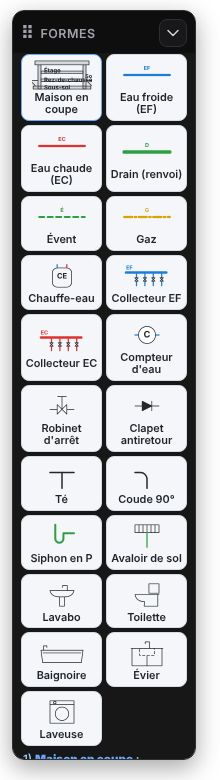
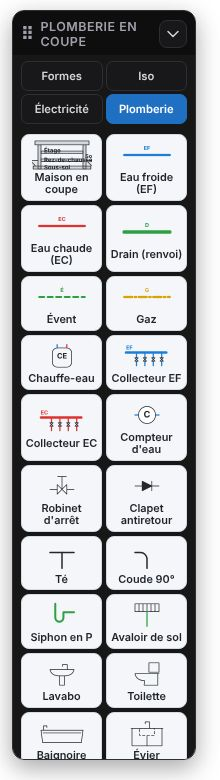
Palette Objets : onglet Plomberie en haut, avec Formes, Iso et Électricité
Claude-Session: https://claude.ai/code/session_0132P7fSy2K8VC3HWdnHumMj

diff --git a/index.html b/index.html
@@ -2740,7 +2740,7 @@ let dernierTap = null;
 function tapElement(o, e){ if (!o || !e) return; const t = performance.now(), d = dernierTap; dernierTap = { o, t, x:e.clientX, y:e.clientY };
   if (d && d.o === o && t - d.t < 550 && Math.hypot(e.clientX - d.x, e.clientY - d.y) < 24 && strokes().includes(o)){ dernierTap = null; SELO.s = o; redrawInk(); majObjUI(); modifierForme(o, e.clientX, e.clientY); } }
 /* sélectionner un élément d'une autre catégorie : la palette passe à son onglet (Formes, Iso ou Électricité) */
-function ongletPour(o){ return o.fil ? "elec" : o.t !== "objet" ? "formes" : ELEC[o.k] ? "elec" : "iso"; }
+function ongletPour(o){ return o.fil ? "elec" : FORMES[o.t] && FORMES[o.t].pl ? "plomb" : o.t !== "objet" ? "formes" : ELEC[o.k] ? "elec" : "iso"; }
 function choisirAutre(o){ const t = ongletPour(o), isoBg = !!RD.wb && /^iso/.test(wbBg());
   if ((t === "iso" && !isoBg) || (t === "elec" && !modeElec())){ aviser(t === "iso" ? "Cet objet isométrique se modifie sur le fond « plan isométrique » (bouton Fond)." : "Ce symbole électrique se modifie sur le fond quadrillé (bouton Fond).", 4500); return false; }
   if (RD.objTab !== t){ RD.formeK = null; RD.objKi = null; RD.objKe = null; } RD.objTab = t; SELO.s = o; majObjUI(); redrawInk(); return true; }
@@ -3248,12 +3248,12 @@ function majObjUI(){ const b = $("#objBar"); if (!b) return; b.hidden = !RD.obj;
   /* onglet : Formes, Isométrique (fond iso) ou Électricité (fond quadrillé) */
   const isoBg = !!RD.wb && /^iso/.test(wbBg());
   if (!RD.objTab || (RD.objTab === "iso" && !isoBg) || (RD.objTab === "elec" && !modeElec())) RD.objTab = modeElec() ? "elec" : isoBg ? "iso" : "formes";
-  if (RD.objTab !== "formes") RD.formeK = null;
+  if (RD.objTab !== "formes" && RD.objTab !== "plomb") RD.formeK = null;
   const tab = RD.objTab, el = tab === "elec"; RD.objK = el ? (RD.objKe || null) : (RD.objKi || null);   /* aucun outil par défaut : on choisit, déplace et nomme */
-  b.querySelectorAll("[data-tab]").forEach(x => { x.classList.toggle("on", x.dataset.tab === tab); x.disabled = x.dataset.tab !== "formes" && !RD.wb; x.setAttribute("aria-selected", x.dataset.tab === tab); });
+  b.querySelectorAll("[data-tab]").forEach(x => { x.classList.toggle("on", x.dataset.tab === tab); x.disabled = !/^(formes|plomb)$/.test(x.dataset.tab) && !RD.wb; x.setAttribute("aria-selected", x.dataset.tab === tab); });
   b.querySelectorAll(".grp").forEach(x => x.hidden = x.dataset.g !== tab); b.querySelectorAll(".grpE").forEach(x => x.hidden = !el);
   b.querySelectorAll("[data-f]").forEach(x => x.classList.toggle("on", x.dataset.f === RD.formeK));
-  b.querySelector(".tit").textContent = el ? "Schéma électrique" : tab === "iso" ? "Objets isométriques" : "Formes"; b.classList.toggle("sim", !!RD.sim); $("#objSim").textContent = RD.sim ? "■ Arrêter l'animation" : "▶ Animer le schéma";
+  b.querySelector(".tit").textContent = el ? "Schéma électrique" : tab === "iso" ? "Objets isométriques" : tab === "plomb" ? "Plomberie en coupe" : "Formes"; b.classList.toggle("sim", !!RD.sim); $("#objSim").textContent = RD.sim ? "■ Arrêter l'animation" : "▶ Animer le schéma";
   b.querySelectorAll("[data-k]").forEach(x => x.classList.toggle("on", x.dataset.k === RD.objK));
   b.querySelectorAll("[data-fc]").forEach(x => x.classList.toggle("on", x.dataset.fc === (RD.filCol || "#24282c")));
   const se = SELO.s && strokes().includes(SELO.s) && ELEC[SELO.s.k] ? SELO.s : null, de = ELEC[se ? se.k : RD.objK] || null, bn = b.querySelector("#objNF"), bl = b.querySelector("#objL");
@@ -3274,11 +3274,11 @@ function majObjUI(){ const b = $("#objBar"); if (!b) return; b.hidden = !RD.obj;
   const bar = document.createElement("div"); bar.id = "objBar"; bar.hidden = true;
   bar.style.cssText = "position:absolute;z-index:75;left:12px;top:70px;display:flex;flex-direction:column;gap:6px;width:184px;max-height:calc(100% - 150px);overflow-y:auto;overflow-x:hidden;padding:8px;border-radius:12px;background:rgba(14,14,15,.96);border:1px solid #2f2f33;color:#d4d4d8;font:600 .8rem system-ui,sans-serif;box-shadow:0 8px 24px rgba(0,0,0,.35)";
   bar.innerHTML = '<div class="tete" title="Glisse ici pour déplacer la palette"><span class="poig">⠿</span><span class="tit">Objets</span></div>'
-    + '<div class="onglets" role="tablist"><button data-tab="formes" role="tab">Formes</button><button data-tab="iso" role="tab" title="Objets isométriques (plomberie, chauffage)">Iso</button><button data-tab="elec" role="tab">Électricité</button></div>'
+    + '<div class="onglets" role="tablist"><button data-tab="formes" role="tab">Formes</button><button data-tab="iso" role="tab" title="Objets isométriques (plomberie, chauffage)">Iso</button><button data-tab="elec" role="tab">Électricité</button><button data-tab="plomb" role="tab" title="Plomberie en coupe : maison, tuyaux EF/EC, drain, appareils">Plomberie</button></div>'
     + '<div class="grp" data-g="formes"><div class="cgrid cform">' + Object.keys(FORMES).filter(k => !FORMES[k].pl).map(k => '<button data-f="' + k + '" title="' + FORMES[k].n + '"><canvas width="120" height="64"></canvas><span>' + FORMES[k].n + '</span></button>').join("") + '</div>'
     + '<div class="aide"><b>Touche</b> une forme pour la choisir : glisse-la pour la déplacer, tire un <b>carré blanc</b> pour la grandir. <b>Double-clic</b> : écrire la cote, l\'angle ou un nom. Pour en <b>ajouter</b> : choisis une forme ci-dessous, puis glisse sur le tableau. <b>Clic à côté</b> : plus rien de choisi.</div>'
-    + '<details class="plomb"><summary>Plomberie (maison en coupe)</summary><div class="cgrid cform">' + Object.keys(FORMES).filter(k => FORMES[k].pl).map(k => '<button data-f="' + k + '" title="' + FORMES[k].n + '"><canvas width="120" height="64"></canvas><span>' + FORMES[k].n + '</span></button>').join("") + '</div>'
-    + '<div class="aide">1) <b>Maison en coupe</b> : touche-la puis clique sur le tableau. 2) <b>Tuyaux</b> (EF, EC, drain, évent, gaz) : glisse d\'un point à l\'autre; ils restent droits ou à 45° et s\'aimantent au bout d\'un autre tuyau. 3) <b>Appareils et raccords</b> : un clic les pose. <b>Double-clic</b> sur un tuyau : son diamètre (ex. 3/4 po).</div></details></div>'
+    + '</div><div class="grp" data-g="plomb"><div class="cgrid cform">' + Object.keys(FORMES).filter(k => FORMES[k].pl).map(k => '<button data-f="' + k + '" title="' + FORMES[k].n + '"><canvas width="120" height="64"></canvas><span>' + FORMES[k].n + '</span></button>').join("") + '</div>'
+    + '<div class="aide">1) <b>Maison en coupe</b> : touche-la puis clique sur le tableau. 2) <b>Tuyaux</b> (EF, EC, drain, évent, gaz) : glisse d\'un point à l\'autre; ils restent droits ou à 45° et s\'aimantent au bout d\'un autre tuyau. 3) <b>Appareils et raccords</b> : un clic les pose. <b>Double-clic</b> sur un tuyau : son diamètre (ex. 3/4 po).</div></div>'
     + '<div class="grp" data-g="iso"><div class="cgrid ciso">' + Object.keys(OBJETS).map(k => '<button data-k="' + k + '" title="' + OBJETS[k].n + '"><canvas width="120" height="64"></canvas><span>' + OBJETS[k].n + '</span></button>').join("") + '</div>'
     + '<div class="aide"><b>Touche</b> un objet pour le choisir et le déplacer (les tuyaux raccordés suivent), <b>double-clic</b> pour le nommer. Pour en <b>poser</b> un : <b>glisse-le</b> sur le tableau (il se branche tout seul sur un tuyau tout près), ou touche-le puis clique sur la grille. <b>Clic à côté</b> : plus rien de choisi.</div></div>'
     + '<div class="grp" data-g="elec"><button id="objSch" class="sch-btn" title="Circuits prêts à utiliser et tableaux enregistrés">📋 Modèles et mes schémas</button>' + ELEC_CAT.map(([cg, cn]) => '<button class="cat" data-cat="' + cg + '">' + cn + '</button><div class="cgrid" data-cat="' + cg + '">'
@@ -3295,7 +3295,7 @@ function majObjUI(){ const b = $("#objBar"); if (!b) return; b.hidden = !RD.obj;
   st.textContent = '#objBar button{min-height:32px;padding:0 8px;border-radius:8px;border:1px solid #2f2f33;background:#18181a;color:#d4d4d8;cursor:pointer;font:inherit;text-align:left}#objBar button:hover{border-color:#6a6a70}#objBar button.on{background:#2a2a2d;border-color:#6aa9ff;color:#fff}'
     + '#objBar .tete{display:flex;align-items:center;gap:6px;cursor:grab;user-select:none;touch-action:none;padding:2px 0 4px 2px;position:sticky;top:-8px;z-index:2;background:rgb(14,14,15);margin:-8px -8px 0;padding:8px 8px 6px;color:#a1a1aa;font-size:.78rem;letter-spacing:.04em;text-transform:uppercase}#objBar .tete:active{cursor:grabbing}#objBar .poig{font-size:1.1rem;line-height:1}'
     + '#objBar #objF{margin-left:auto;flex:none;min-height:28px;width:28px;padding:0;display:flex;align-items:center;justify-content:center}#objBar.of{width:auto!important}#objBar.of .tit{display:none}'
-    + '#objBar .onglets{display:grid;grid-template-columns:repeat(3,1fr);gap:3px;margin-bottom:4px}#objBar .onglets button{min-height:30px;padding:0 2px;text-align:center;font-size:.7rem;border-radius:7px}#objBar .onglets button.on{background:#1f6fc2;border-color:#1f6fc2;color:#fff}#objBar .onglets button[disabled]{opacity:.35;cursor:not-allowed}'
+    + '#objBar .onglets{display:grid;grid-template-columns:repeat(2,1fr);gap:3px;margin-bottom:4px}#objBar .onglets button{min-height:30px;padding:0 2px;text-align:center;font-size:.7rem;border-radius:7px}#objBar .onglets button.on{background:#1f6fc2;border-color:#1f6fc2;color:#fff}#objBar .onglets button[disabled]{opacity:.35;cursor:not-allowed}'
     + '#objBar .grp{display:flex;flex-direction:column;gap:4px}#objBar .grp[hidden],#objBar .grpE[hidden]{display:none!important}'
     + '#objBar .sch-btn{text-align:center!important;background:#1f6fc2!important;border-color:#1f6fc2!important;color:#fff!important;margin-bottom:4px}#objBar .cat{background:transparent!important;border:0!important;color:#a1a1aa!important;font-size:.72rem;text-transform:uppercase;letter-spacing:.04em;min-height:26px!important;padding:0 2px!important;display:flex;align-items:center;gap:6px}#objBar .cat::before{content:"▾";font-size:.8rem;width:10px}#objBar .cat.ferme::before{content:"▸"}#objBar .cat:hover{color:#fff!important}'
     + '#objBar .cgrid{display:grid;grid-template-columns:1fr 1fr;gap:4px;margin-bottom:4px}#objBar .cgrid[hidden]{display:none}#objBar .pol{display:grid;grid-template-columns:1fr 1fr;gap:4px}#objBar .pol button{text-align:center;font-size:.78rem}#objBar .del{display:flex;align-items:center;gap:6px;font-size:.78rem}#objBar .del input{width:56px;min-height:30px;border-radius:8px;border:1px solid #2f2f33;background:#fff;color:#111;font:inherit;font-weight:700;padding:0 6px}'
@@ -3360,10 +3360,10 @@ function majObjUI(){ const b = $("#objBar"); if (!b) return; b.hidden = !RD.obj;
       dessinerObjet(g, s1, W, H, RD.z * dpr, "#3a424b"); } catch(e){} RD.z = z0; });
   /* onglets : Formes partout; Isométrique et Électricité changent le fond du tableau au besoin */
   bar.querySelectorAll("[data-tab]").forEach(b => b.onclick = () => { const t = b.dataset.tab;
-    if (t !== "formes" && !RD.wb){ aviser("Les objets isométriques et les symboles électriques se posent sur le tableau blanc (bouton Tableau blanc)."); return; }
+    if (t !== "formes" && t !== "plomb" && !RD.wb){ aviser("Les objets isométriques et les symboles électriques se posent sur le tableau blanc (bouton Tableau blanc)."); return; }
     RD.objTab = t; SELO.s = null;
     RD.formeK = null; RD.objKi = null; RD.objKe = null;
-    if (t !== "formes"){ const voulu = t === "iso" ? /^iso/ : /^quad$/;
+    if (t !== "formes" && t !== "plomb"){ const voulu = t === "iso" ? /^iso/ : /^quad$/;
       if (!voulu.test(wbBg())){ wbEtat().bg[wbEtat().n] = t === "iso" ? "iso" : "quad"; majFond(); aviser(t === "iso" ? "Fond : plan isométrique." : "Fond : quadrillé (schéma électrique en échelle)."); } }
     redrawInk(); refreshTools(); });
   bar.querySelectorAll("[data-fc]").forEach(x => x.onclick = () => { RD.filCol = x.dataset.fc; RD.objKe = "fil"; RD.objKi = null; SELO.s = null; majObjUI(); redrawInk(); aviser("Fil " + x.title.toLowerCase() + " : glisse d'un point bleu à l'autre.", 2500); });
@@ -3515,7 +3515,7 @@ function majObjUI(){ const b = $("#objBar"); if (!b) return; b.hidden = !RD.obj;
     if (s.k === "rails"){ if (surRails(s, G, x, y, .1) && (RD.objK === "rails" || (y - G.oy) / G.u < .4)) return s; continue; }
     if (x >= G.bbox[0] - 4 && x <= G.bbox[2] + 4 && y >= G.bbox[1] - 4 && y <= G.bbox[3] + 4) return s; } return null; };
   c.addEventListener("pointerdown", e => {
-    if (!RD.obj || !RD.wb || RD.eraser || RD.sim || RD.objTab === "formes") return;
+    if (!RD.obj || !RD.wb || RD.eraser || RD.sim || RD.objTab === "formes" || RD.objTab === "plomb") return;
     const q = cur(e), el = modeElec();
     { const o = touche(q.raw); if (o && ongletPour(o) !== RD.objTab){ e.stopImmediatePropagation(); if (choisirAutre(o)) tapElement(o, e); return; }
       if (!o && !(el && borneProche(q.raw))){ const f = formeSous(q.raw);
@@ -3656,7 +3656,7 @@ function majObjUI(){ const b = $("#objBar"); if (!b) return; b.hidden = !RD.obj;
       RD.obj = true; RD.objTab = null; RD.formeK = null; RD.objKi = null; RD.objKe = null; refreshTools();
       if (hit.t === "objet"){ if (choisirAutre(hit)) tapElement(hit, e); return; }
       choisirAutre(hit); cur = { bouge:hit, q0:pt(e), p0:hit.p.map(v => v.slice()), snap:false, x0:e.clientX, y0:e.clientY }; return; }
-    if (RD.text || (RD.obj && RD.objTab !== "formes")){ e.preventDefault(); return; }
+    if (RD.text || (RD.obj && RD.objTab !== "formes" && RD.objTab !== "plomb")){ e.preventDefault(); return; }
     const q = pt(e);
     if (RD.obj){ const brut = (r => [(e.clientX - r.left) / r.width, (e.clientY - r.top) / r.height])(c.getBoundingClientRect()), ip = poigneeSous(SELO.s, brut);
       if (ip >= 0 && !(RD.formeK && /^tuy/.test(RD.formeK))){ cur = { poignee:ip, s:SELO.s, snap:false, x0:e.clientX, y0:e.clientY }; return; }   /* outil tuyau : on part du bout pour un nouveau tuyau */               /* agrandir / rapetisser par une poignée */
@@ -3664,7 +3664,7 @@ function majObjUI(){ const b = $("#objBar"); if (!b) return; b.hidden = !RD.obj;
       if (hit && hit === SELO.s && !(RD.formeK && /^tuy/.test(RD.formeK) && /^tuy/.test(hit.t))){ cur = { bouge:hit, q0:q, p0:hit.p.map(v => v.slice()), snap:false, x0:e.clientX, y0:e.clientY }; return; }   /* forme déjà choisie : on la glisse */
       const obj = !hit && RD.wb ? objetSous(brut) : null;
       if (!RD.formeK){           /* aucun outil : toucher = choisir (et glisser = déplacer); toucher à côté = rien de choisi */
-        if (hit){ SELO.s = hit; redrawInk(); majObjUI(); cur = { bouge:hit, q0:q, p0:hit.p.map(v => v.slice()), snap:false, x0:e.clientX, y0:e.clientY }; return; }
+        if (hit){ SELO.s = hit; { const og = ongletPour(hit); if (og !== RD.objTab && /^(formes|plomb)$/.test(og)) RD.objTab = og; } redrawInk(); majObjUI(); cur = { bouge:hit, q0:q, p0:hit.p.map(v => v.slice()), snap:false, x0:e.clientX, y0:e.clientY }; return; }
         if (obj){ if (choisirAutre(obj)) tapElement(obj, e); return; }
         if (SELO.s){ SELO.s = null; redrawInk(); majObjUI(); } e.preventDefault(); return; }
       var choisir = hit || obj;     /* forme pas encore choisie : un simple clic la choisit, mais glisser trace une nouvelle forme (ex. une cote qui part du coin d'un rectangle) */
@@ -3926,7 +3926,7 @@ function refreshTools(){
   const sw = document.querySelector('#penBar .sw[data-c="#24282c"]'); if (sw){ sw.style.setProperty("--c", wbSombre() ? "#f4f1ea" : "#24282c"); sw.setAttribute("aria-label", wbSombre() ? "Craie blanche" : "Noir"); }
   document.querySelectorAll("#penBar .sw").forEach(b => b.classList.toggle("on", !RD.eraser && b.dataset.c === RD.color)); if (RD.swx) RD.swx.classList.toggle("on", !RD.eraser && !document.querySelector("#penBar .sw.on"));
   if (RD.obj && !(RD.pen || RD.wb)) RD.obj = false;
-  if (RD.obj && RD.objTab && RD.objTab !== "formes" && !RD.wb) RD.objTab = "formes";
+  if (RD.obj && RD.objTab && RD.objTab !== "formes" && RD.objTab !== "plomb" && !RD.wb) RD.objTab = "formes";
   if (RD.sim && (!RD.obj || !modeElec())) simStop(true);
   $("#penO").classList.toggle("on", !!RD.obj);
   redrawInk(); if (!RD.text) SEL.s = null; if (!RD.obj) SELO.s = null; majBarTxt(); majSelTxt(); majObjUI();

diff --git a/CLAUDE.md b/CLAUDE.md
@@ -56,7 +56,7 @@
   s'arrête dès que l'enseignant tourne lui-même une page : `RD.bouge`).
 - Badges « Nouveau » / « Mis à jour » : `estNouveau`, `majRecente`, `badgeLivre` — 30 jours, et disparaissent une fois le livre
   ouvert sur cet ordinateur (`localStorage.livresVus`).
-- **Palette Objets** (`#objBar`, bouton cube `#penO`, visible partout) : trois onglets `RD.objTab` = `formes` | `iso` | `elec`.
+- **Palette Objets** (`#objBar`, bouton cube `#penO`, visible partout) : quatre onglets `RD.objTab` = `formes` | `iso` | `elec` | `plomb` (Plomberie : mêmes mécanismes que Formes, n'importe quel fond; partout où on teste « formes », tester aussi « plomb »).
   **Aucun outil par défaut** (`RD.formeK`, `RD.objKi`, `RD.objKe` = null à l'ouverture et au changement d'onglet; toucher l'outil actif l'éteint).
   Sans outil : clic = choisir (trait **ou intérieur** des formes fermées, la plus petite gagne), glisser = déplacer, double-clic = nommer, clic à côté = rien de choisi.
   Avec un outil : glisser trace (formes), clic pose (objets); l'élément créé reste choisi; un clic à côté quand quelque chose est choisi = retour à aucun outil (`cur.raz`, `mv.raz`).
@@ -70,7 +70,7 @@
 - **Lot du 28 oct.** : `effacerChoix()` (Suppr et `#objD`, aussi pour `SELM` = sélection multiple), gomme `RD.gommeT` (`#popGom`, `localStorage.gommeTaille`), plein écran `#penFs`, couleur perso `localStorage.penPerso`, aperçu de glisser-déposer `window.APERCU` (dessiné en fin de `redrawInk`, `apercuObjet`/`placer`).
 - **Lot électricité du 28 oct.** : `relais` (palette) pose bobine + contact NO + contact NF du même repère (`poserRelais`); repères auto `etiqAuto`/`completerObjet` (CRn, TRn; un contact prend la bobine choisie ou la dernière); bornes A1/A2 et `numBornes` (i3-i4 NO, i1-i2 NF selon le rang du contact); `ampoule`; tensions `s.vp`/`s.vs` (transfo) et `s.v` (échelle, au centre), éditées dans `modifierForme` par des cases `data-cle`; `RD.filCol` + rangée `[data-fc]`; pôles/positions `[data-pp]`/`[data-pt]` qui cliquent les anciens `[data-pol]` (cachés, `.orig`); `nettoyerJonctions` (< 3 branchements = effacée); `window.reparerApresSuppression` relie les fils/tuyaux d'un objet à 2 bornes effacé.
 - **Sélection multiple** (`window.SELM`) : IIFE en capture avant les autres gestionnaires du canevas, active seulement sans outil (`!RD.formeK && !RD.objK`) — Ctrl/Maj+clic bascule un élément, glisser dans le vide = cadre (`boiteDe`), glisser un membre = déplacer le groupe; cadres pointillés dessinés dans `redrawInk`; `recolorerSel` et `effacerChoix` traitent `SELM`; `copierColler('c'|'v'|'x'|'d')` (`window.PRESSE`, décalage de 2 cases ou d'un pas iso). Ctrl/Maj + glisser = cadre style Windows partout sur le tableau blanc, même avec un outil (z-index 100000, sinon caché sous le lecteur); un objet passe avant un trait au toucher (`objetSous` avant `formeSous`); avec l'outil Fil, un simple clic sur un symbole le choisit (`mv.surObjet`). Ctrl + vignette = `window.remplacerObjet(o, k)` (même famille); Ctrl + forme = change `s.t` en gardant la boîte.
-- **Plomberie en coupe** : formes `FORMES[k].pl` (section `<details class="plomb">` de l'onglet Formes) : `maison`, tuyaux `tuyEF/EC/DR/EV/GZ` (couleurs `COUL_TUY`, traités comme des lignes : regex `tuy[A-Z]+`), appareils `pl*`; dessin `dessinerPlomb`; taille d'un clic `FORMES_TAILLE` (centrée); `aimanterTuyau` (45° + bout ou trajet d'un autre tuyau); avec un outil tuyau, toucher le tuyau choisi ou sa poignée démarre un nouveau tuyau.
+- **Plomberie en coupe** : formes `FORMES[k].pl` (onglet `plomb` de la palette, `.grp[data-g="plomb"]`; `ongletPour` → « plomb ») : `maison`, tuyaux `tuyEF/EC/DR/EV/GZ` (couleurs `COUL_TUY`, traités comme des lignes : regex `tuy[A-Z]+`), appareils `pl*`; dessin `dessinerPlomb`; taille d'un clic `FORMES_TAILLE` (centrée); `aimanterTuyau` (45° + bout ou trajet d'un autre tuyau); avec un outil tuyau, toucher le tuyau choisi ou sa poignée démarre un nouveau tuyau.
 - **Cotes** : `placerCase` met la case du double-clic à côté de l'objet; boutons `[data-plus="txt"]` (texte seul : cote avec `s.txt = 1`, sans lignes, lettre a, b, c… par défaut, poussée hors du côté selon la largeur du texte) et `[data-plus="cote"]` → `ajouterCote(s, txt)` (côté suivant sans texte / sans cote, à l'extérieur; `sommetsForme`).
 - **Crayon** : le bouton crayon `#penCol` (icône crayon, pointe à la couleur `--pc`) active/désactive le crayon (`RD.crayonOff`; l'activer ouvre `#popCol`). Épaisseur = glissière 1–40 (`RD.wPx`, `localStorage.penLargeur`, `majLargeur`); l'ancien bouton `#penW` (3 grosseurs) est retiré. Le tracé (`RD.shape`) se choisit dans la rangée « Tracé » du menu (`.ptrace`); `#penS` est caché (gardé pour `refreshTools`).
 - **Ouverture du tableau blanc** (`toggleWb`) : classe `#reader.wbon` qui cache la barre du livre `#tb` (on sort par ✕ `#penX` ou Retour); toujours aucun outil (`RD.crayonOff = true`, objets/gomme/texte éteints). Dans cet état, toucher une forme ou un objet ouvre la palette Objets et le choisit (`choisirAutre`, glisser = déplacer).
